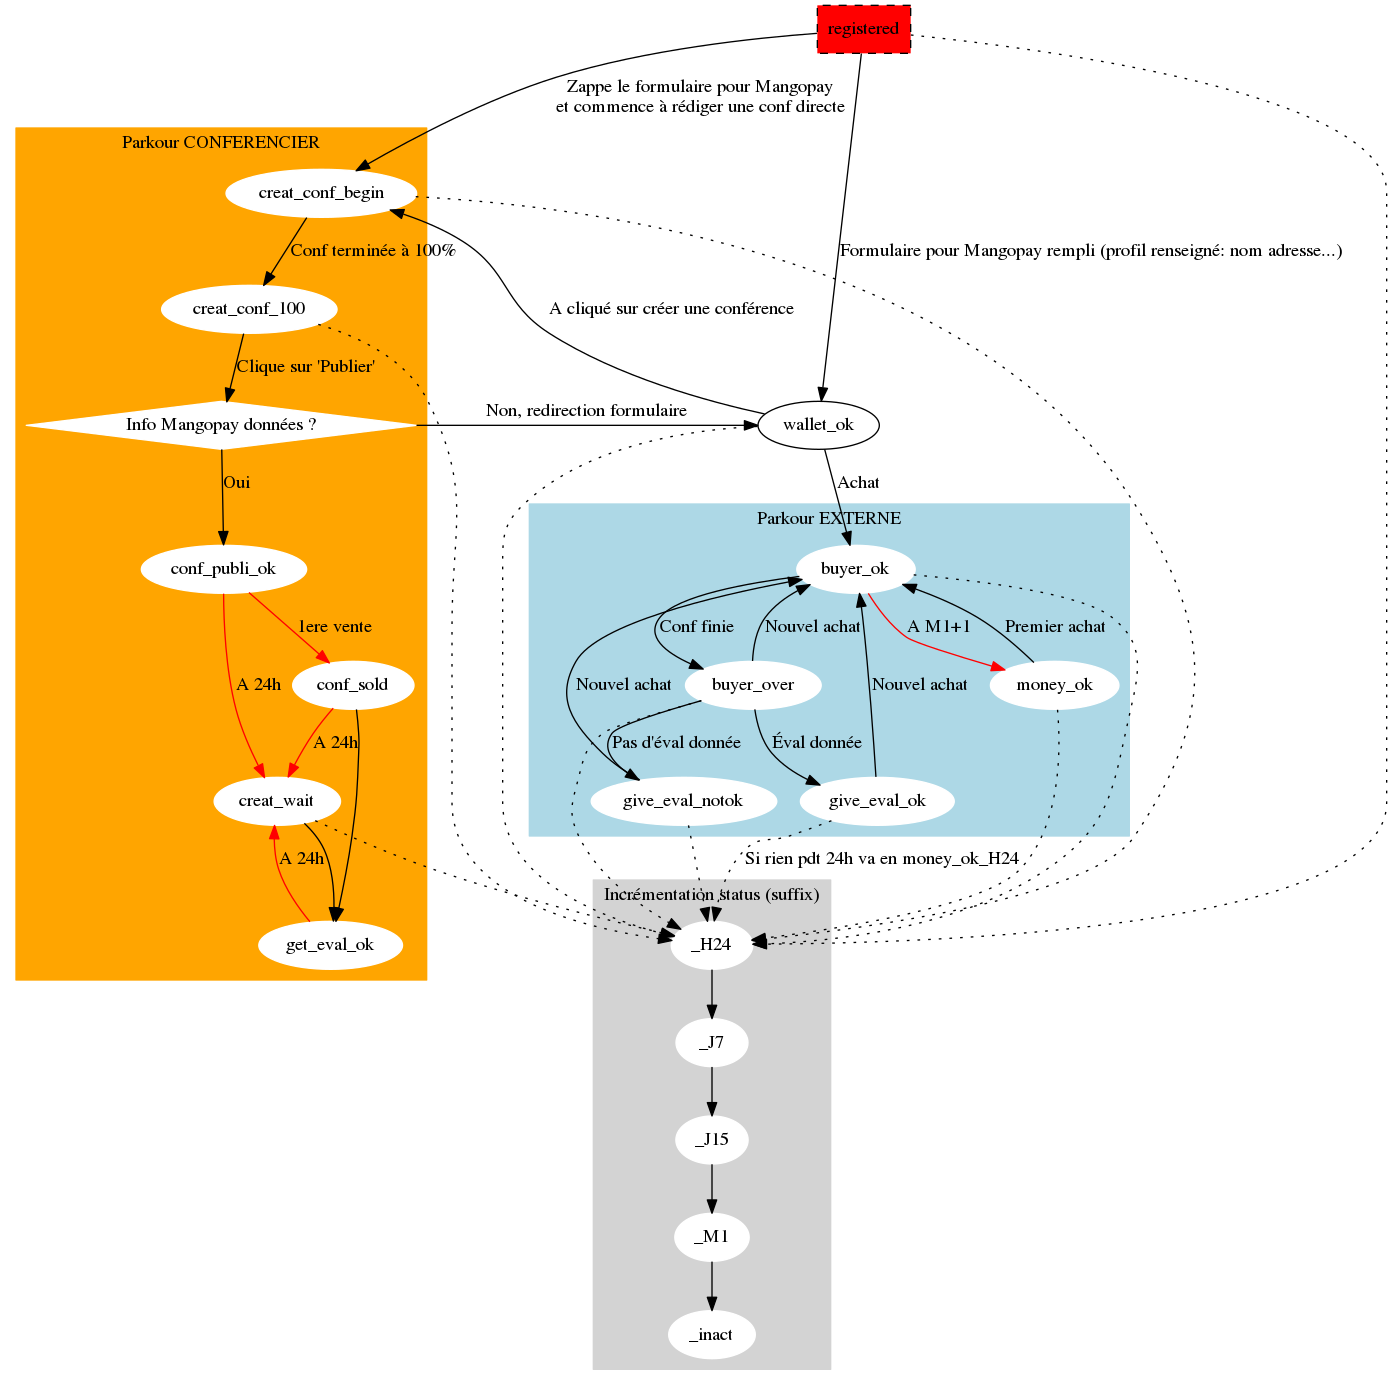
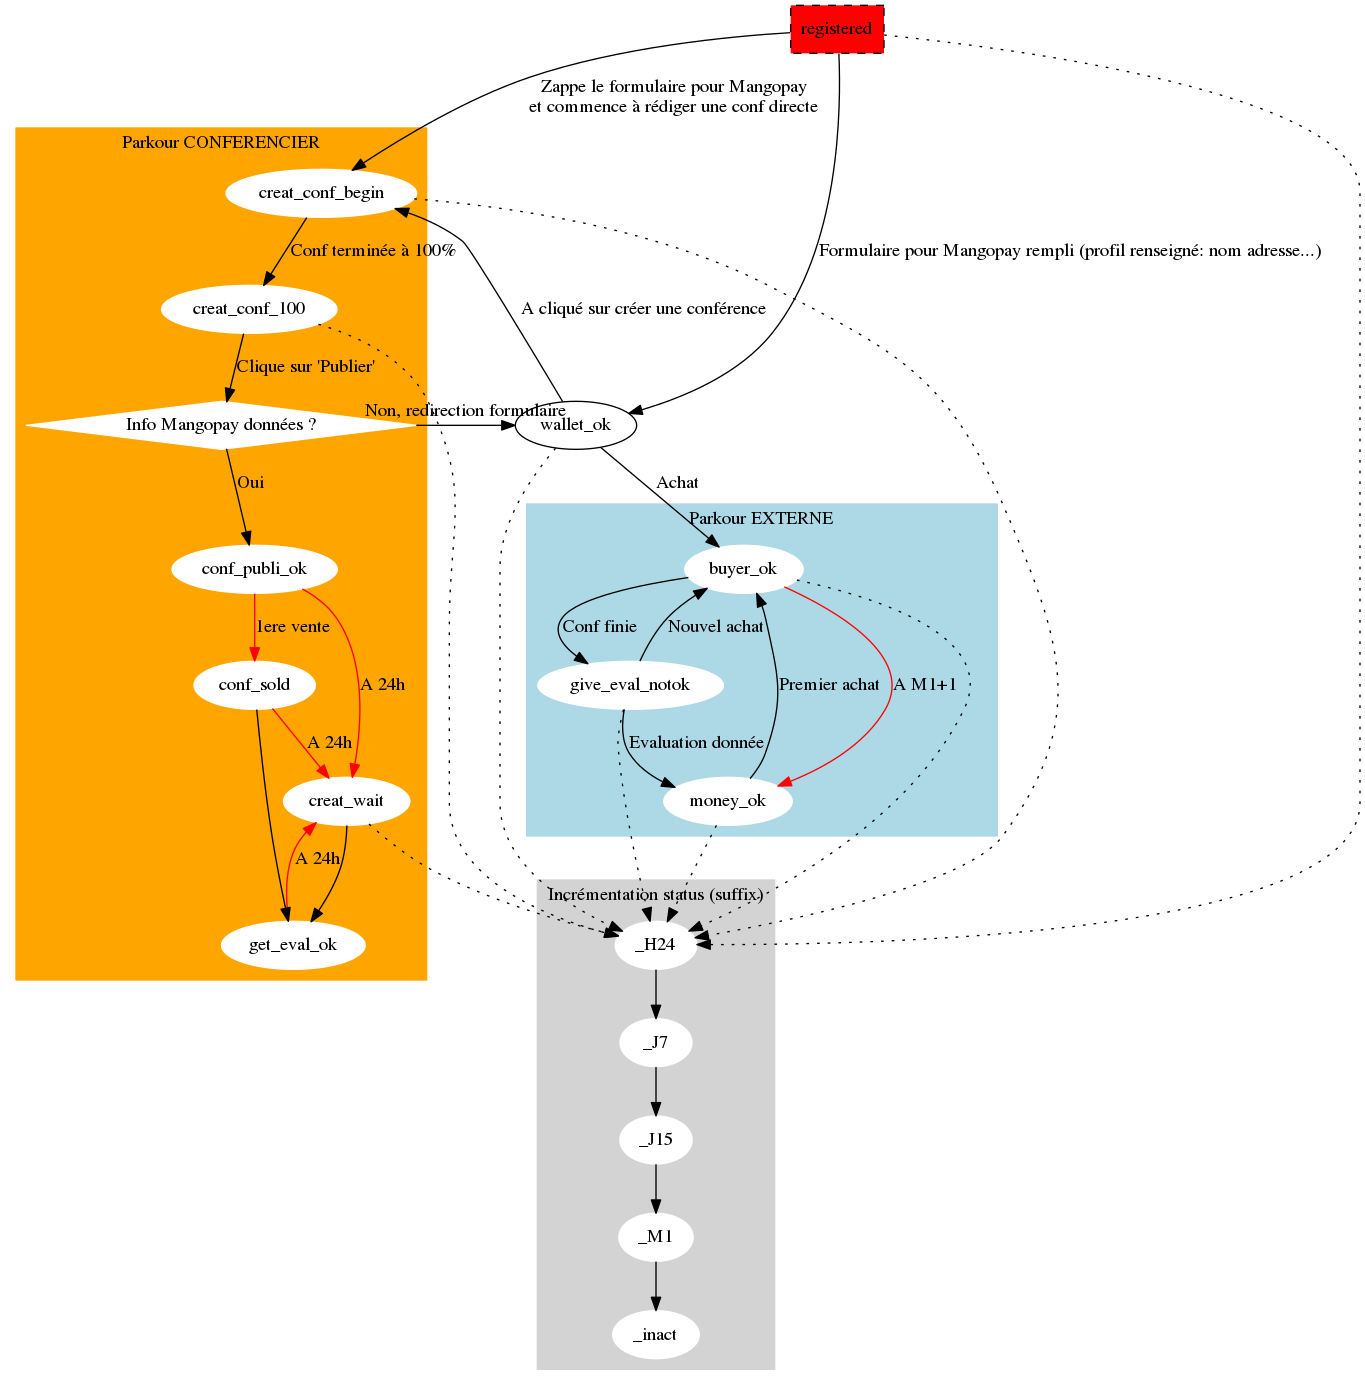
mailchync work in progress

diff --git a/blousebrothers/mailchimp.py b/blousebrothers/mailchimp.py
@@ -79,7 +79,9 @@ def handle_status(user):
     if not user.status_timestamp:
         user.status_timestamp = now
     #  Manage special status
-    if user.status == "conf_sold" and now - user.status_timestamp > timedelta(hours=8):  # 8h if sold at 00:00 ...
+    if user.status == "conf_publi_ok" and now - user.status_timestamp > timedelta(hours=24):  # 8h if sold at 00:00 ...
+        user.status = "creat_wait"
+    if user.status == "conf_sold" and now - user.status_timestamp > timedelta(hours=24):  # 8h if sold at 00:00 ...
         user.status = "creat_wait"
     if user.status == "give_eval_ok" and now - user.status_timestamp > timedelta(hours=24):
         user.status = "money_ok_inact"
